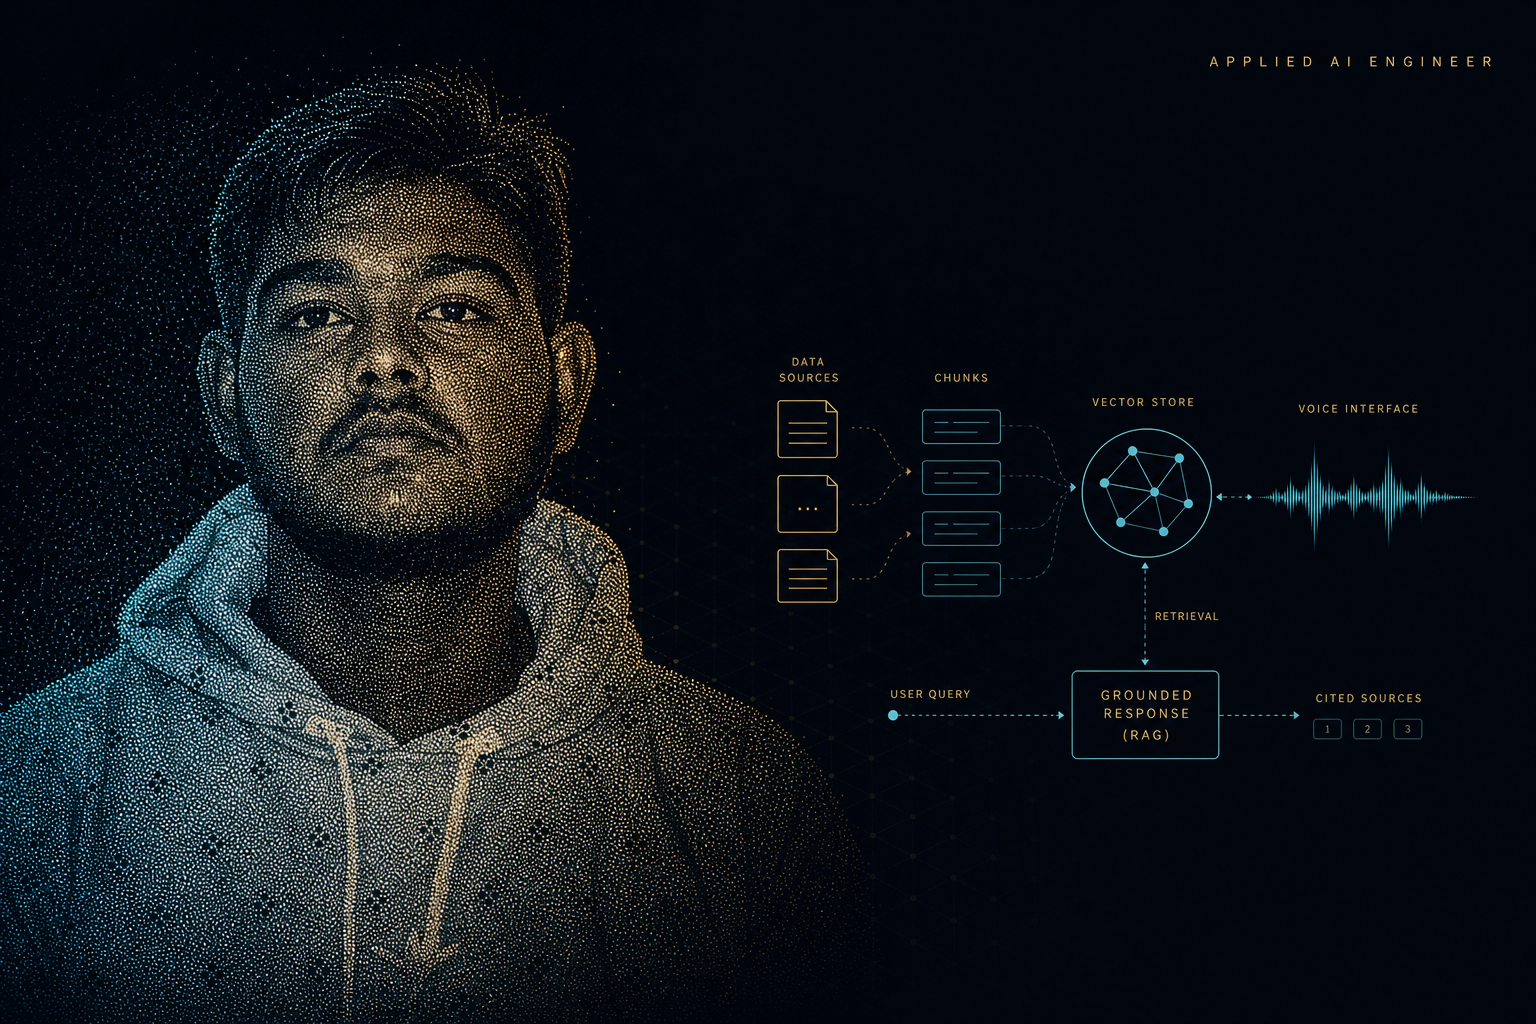
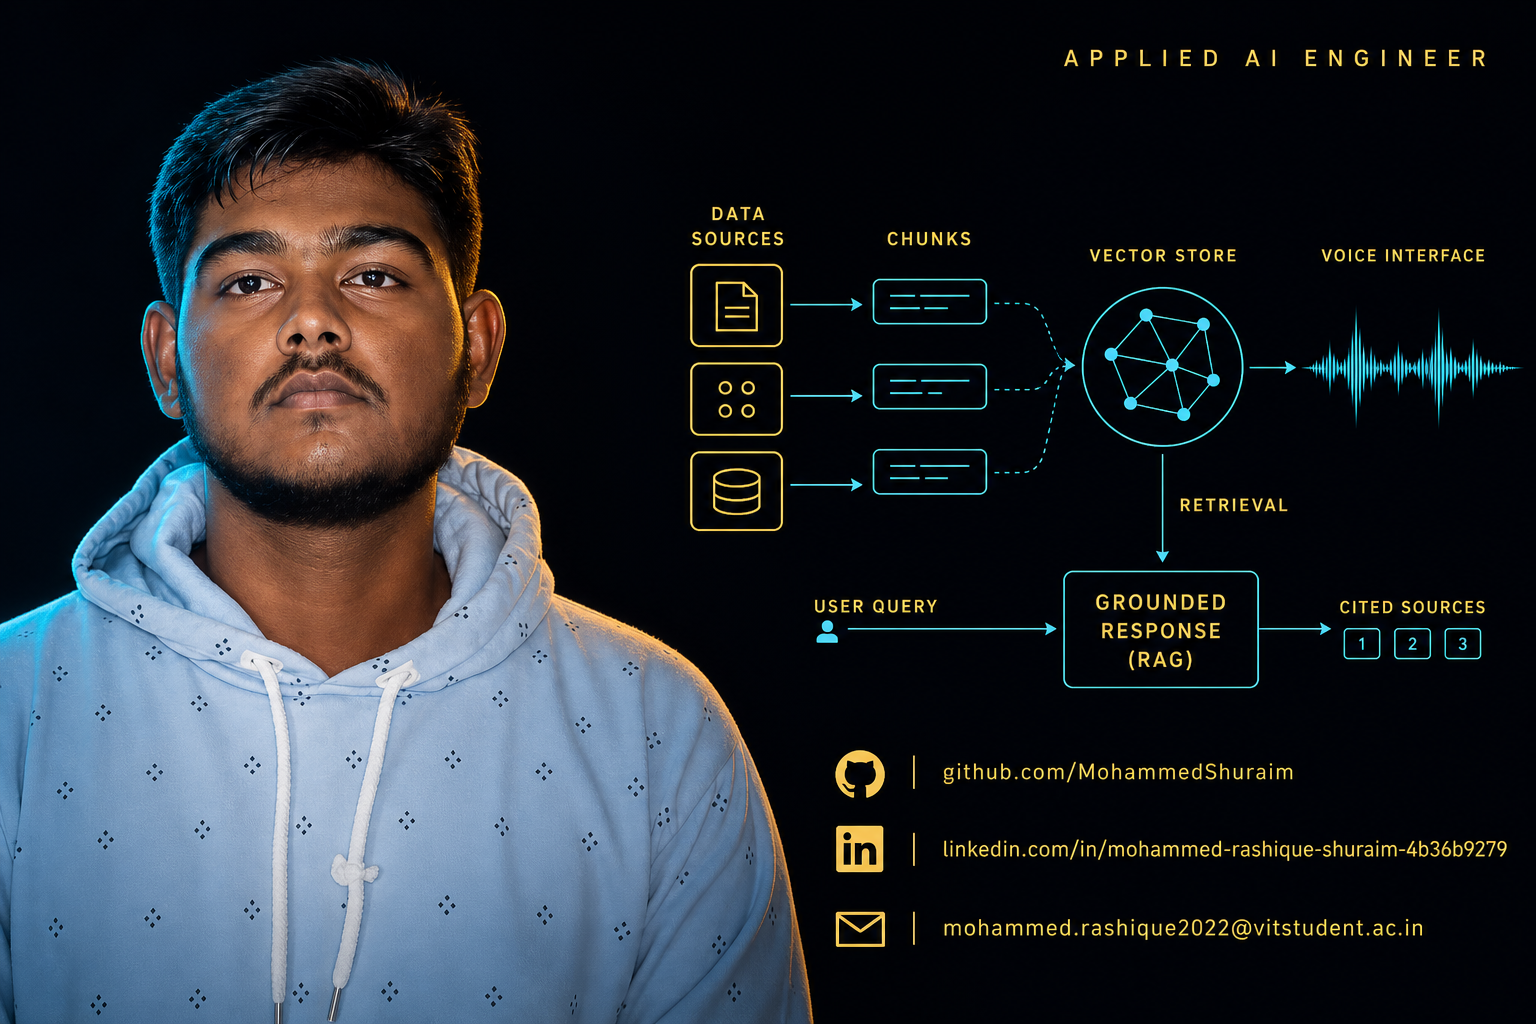
Raise profile art resolution and fix contact, pipeline, and Signal cards.

diff --git a/README.md b/README.md
@@ -1,53 +1,49 @@
-<!-- Theme: Ink #070A12 · Brass #D4AF6A · Signal cyan #38D8F0 · Neural violet #7C6CFF -->
+<!-- Applied AI Engineer · Ink #070A12 · Brass #D4AF6A · Signal cyan #38D8F0 -->
 
 <div align="center">
-<picture>
-  <source media="(prefers-color-scheme: dark)" srcset="hero-dark.png">
-  <source media="(prefers-color-scheme: light)" srcset="hero-light.png">
   <img src="hero-dark.png" alt="Mohammed Rashique Shuraim — Applied AI Engineer" width="100%">
-</picture>
 </div>
 
 ---
 
 <div align="center">
-<img src="mark.png" width="96" alt="Applied AI mark">
+  <img src="mark.png" width="88" alt="Applied AI mark">
 
-<p><b>Mohammed Rashique Shuraim</b></p>
-<p>Applied AI Engineer</p>
+  <h2>Mohammed Rashique Shuraim</h2>
+  <h3>Applied AI Engineer</h3>
+</div>
 
-I design <b>production AI systems</b> — retrieval that cites the document, voice that routes a command or answers, agents that already know the user’s context.
+I build **production AI systems** that have to be right in the real world: a lawyer asking a statute, an investor asking about holdings, an operator speaking a command to their desktop.
 
-**Theme** · Ink (`#070A12`) · Brass (`#D4AF6A`) · Signal cyan (`#38D8F0`) · Neural violet (`#7C6CFF`)
+The model is never the product. The product is the loop around it — capture the signal, retrieve or transcribe, constrain the generation to sources that exist, return a structured answer, and put it in an interface a stranger can use.
 
-[![LinkedIn](https://img.shields.io/badge/LinkedIn-070A12?style=for-the-badge&logo=linkedin&logoColor=D4AF6A)](https://www.linkedin.com/in/mohammed-rashique-shuraim-4b36b9279)
+I am studying at **VIT Chennai** (`22MIS1040`) and shipping applied AI for Indian-language and Indian-market problems.
+
+<div align="center">
+
+**GitHub** · [github.com/MohammedShuraim](https://github.com/MohammedShuraim)
+
+**LinkedIn** · [linkedin.com/in/mohammed-rashique-shuraim-4b36b9279](https://www.linkedin.com/in/mohammed-rashique-shuraim-4b36b9279)
+
+**Email** · [mohammed.rashique2022@vitstudent.ac.in](mailto:mohammed.rashique2022@vitstudent.ac.in)
+
 [![GitHub](https://img.shields.io/badge/GitHub-MohammedShuraim-070A12?style=for-the-badge&logo=github&logoColor=38D8F0)](https://github.com/MohammedShuraim)
-[![Email](https://img.shields.io/badge/Email-vitstudent-070A12?style=for-the-badge&logo=gmail&logoColor=D4AF6A)](mailto:mohammed.rashique2022@vitstudent.ac.in)
-[![Python](https://img.shields.io/badge/Python-3776AB?style=for-the-badge&logo=python&logoColor=white)](https://www.python.org/)
-[![TypeScript](https://img.shields.io/badge/TypeScript-3178C6?style=for-the-badge&logo=typescript&logoColor=white)](https://www.typescriptlang.org/)
-[![AWS](https://img.shields.io/badge/AWS-232F3E?style=for-the-badge&logo=amazonwebservices&logoColor=FF9900)](https://aws.amazon.com/)
-
-[LexCloud](https://github.com/MohammedShuraim/LexCloud) · [Sentellent AI](https://github.com/MohammedShuraim/sentinel-ai) · [Sarah](https://github.com/MohammedShuraim/sarah-voice-assistant)
+[![LinkedIn](https://img.shields.io/badge/LinkedIn-Connect-070A12?style=for-the-badge&logo=linkedin&logoColor=D4AF6A)](https://www.linkedin.com/in/mohammed-rashique-shuraim-4b36b9279)
+[![Gmail](https://img.shields.io/badge/Gmail-mohammed.rashique2022@vitstudent.ac.in-070A12?style=for-the-badge&logo=gmail&logoColor=D4AF6A)](mailto:mohammed.rashique2022@vitstudent.ac.in)
 
 </div>
 
 ---
 
 <div align="center">
-
-<picture>
-  <source media="(prefers-color-scheme: dark)" srcset="dark.svg">
-  <source media="(prefers-color-scheme: light)" srcset="light.svg">
-  <img src="dark.svg" alt="Particle identity plate" width="100%">
-</picture>
-
+  <img src="identity-plate.png" alt="Identity plate — GitHub, LinkedIn, Email" width="100%">
 </div>
 
 ---
 
 ## What I ship
 
-These are not notebooks. Each one is a product loop: interface, model, retrieval or speech, API, and a cloud path a stranger can open.
+These are not notebooks. Each one is a full product: interface, model, retrieval or speech, API, and a cloud path.
 
 <table>
 <tr>
@@ -58,8 +54,6 @@ These are not notebooks. Each one is a product loop: interface, model, retrieval
 
 Upload a statute or contract. Ask from the **PDF (RAG)**. Translate the full document into Hindi, Tamil, Telugu, Malayalam, or Kannada. **Whisper** in. **Amazon Polly** out.
 
-Amplify · Lambda · API Gateway · S3 · DynamoDB · Groq
-
 [Repository](https://github.com/MohammedShuraim/LexCloud) · [Live](https://main.d2pw2pic3w5m1.amplifyapp.com) · [Watch](https://www.loom.com/share/ed575fdabd3142d5bef7168b4414385a)
 
 </td>
@@ -68,9 +62,7 @@ Amplify · Lambda · API Gateway · S3 · DynamoDB · Groq
 ### Sentellent AI
 **NSE investment desk**
 
-Investor profile → ranked picks → paper trade → watchlist → news. The analyst chat is injected with **holdings and watchlist**, so it cannot forget what you already own.
-
-Next.js · FastAPI · PostgreSQL / pgvector · Docker · Terraform · Gemini
+Investor profile → ranked picks → paper trade → watchlist → news. Chat is injected with **holdings and watchlist**, so the analyst cannot forget what you already own.
 
 [Repository](https://github.com/MohammedShuraim/sentinel-ai) · [Live](http://sentellent007.duckdns.org:3000) · [Watch](https://www.loom.com/share/ff398d09217c42568d1778d3608317ee)
 
@@ -80,9 +72,7 @@ Next.js · FastAPI · PostgreSQL / pgvector · Docker · Terraform · Gemini
 ### Sarah
 **Desktop voice agent**
 
-Wake word. Silence-aware recording. 34 spoken OS commands. Conversational fallback on Groq GPT-OSS. The same `Assistant` class drives CLI and the React push-to-talk client.
-
-Python · Flask · React 19 · Vite · Whisper · gTTS
+Wake word. Silence-aware recording. 34 spoken OS commands. Conversational fallback on Groq GPT-OSS. One `Assistant` class drives CLI and the React push-to-talk client.
 
 [Repository](https://github.com/MohammedShuraim/sarah-voice-assistant) · [Watch](https://www.loom.com/share/d10d493df9b44a54be501d36abeffb75)
 
@@ -94,38 +84,74 @@ Python · Flask · React 19 · Vite · Whisper · gTTS
 
 ## How I treat a model
 
-```text
-signal → retrieve or transcribe → constrained generation → structured reply → interface
-              ↑                         |
-              └── PDF / holdings / last command
-```
+<div align="center">
+  <img src="pipeline.svg" alt="Grounded generation pipeline" width="100%">
+</div>
 
-Four failure modes I design against:
+**If the source did not say it, the model does not get to invent it.**
 
-1. **Hallucination** — a sentence the source never supported.
-2. **Transcription drift** — the wrong word at the start of the pipeline.
-3. **Stale context** — chat that forgets the document, portfolio, or last command.
-4. **Latency** — RAG and voice die if the round-trip feels like a batch job.
+I design against four failure modes:
 
-If the source did not say it, the model does not get to invent it.
+| Failure | What it looks like | What I do |
+| --- | --- | --- |
+| **Hallucination** | A sentence the source never supported | Retrieve first. Bound the prompt. Cite. |
+| **Transcription drift** | The wrong word at the start of the pipeline | Whisper in, then route; do not “clean up” facts with an unconstrained LLM |
+| **Stale context** | Chat that forgets the PDF, portfolio, or last command | Inject holdings, watchlist, or document into every turn |
+| **Latency** | RAG and voice that feel like a batch job | Serverless and Groq where the round-trip has to stay conversational |
 
 ---
 
 ## Stack from shipped systems
 
+Not a wish list. This is what is actually in LexCloud, Sentellent AI, and Sarah.
+
+### Languages
 <p>
   <img src="https://img.shields.io/badge/Python-3776AB?style=for-the-badge&logo=python&logoColor=white" alt="Python">
   <img src="https://img.shields.io/badge/TypeScript-3178C6?style=for-the-badge&logo=typescript&logoColor=white" alt="TypeScript">
+  <img src="https://img.shields.io/badge/JavaScript-F7DF1E?style=for-the-badge&logo=javascript&logoColor=black" alt="JavaScript">
+  <img src="https://img.shields.io/badge/SQL-4479A1?style=for-the-badge&logo=postgresql&logoColor=white" alt="SQL">
+  <img src="https://img.shields.io/badge/HTML5-E34F26?style=for-the-badge&logo=html5&logoColor=white" alt="HTML5">
+  <img src="https://img.shields.io/badge/CSS3-1572B6?style=for-the-badge&logo=css3&logoColor=white" alt="CSS3">
+</p>
+
+### Applied AI
+<p>
+  <img src="https://img.shields.io/badge/RAG-38D8F0?style=for-the-badge&logoColor=070A12" alt="RAG">
+  <img src="https://img.shields.io/badge/Groq-F55036?style=for-the-badge" alt="Groq">
+  <img src="https://img.shields.io/badge/Whisper-STT-5A5A5A?style=for-the-badge" alt="Whisper">
+  <img src="https://img.shields.io/badge/GPT--OSS-F55036?style=for-the-badge" alt="GPT-OSS">
+  <img src="https://img.shields.io/badge/Google%20Gemini-4285F4?style=for-the-badge&logo=googlegemini&logoColor=white" alt="Gemini">
+  <img src="https://img.shields.io/badge/Amazon%20Polly-4B72B0?style=for-the-badge" alt="Amazon Polly">
+  <img src="https://img.shields.io/badge/gTTS-4285F4?style=for-the-badge&logo=google&logoColor=white" alt="gTTS">
+  <img src="https://img.shields.io/badge/pgvector-4169E1?style=for-the-badge&logo=postgresql&logoColor=white" alt="pgvector">
+</p>
+
+### Product & backend
+<p>
   <img src="https://img.shields.io/badge/FastAPI-009688?style=for-the-badge&logo=fastapi&logoColor=white" alt="FastAPI">
+  <img src="https://img.shields.io/badge/Flask-000000?style=for-the-badge&logo=flask&logoColor=white" alt="Flask">
   <img src="https://img.shields.io/badge/Next.js-000000?style=for-the-badge&logo=nextdotjs&logoColor=white" alt="Next.js">
   <img src="https://img.shields.io/badge/React-61DAFB?style=for-the-badge&logo=react&logoColor=111827" alt="React">
-  <img src="https://img.shields.io/badge/RAG-38D8F0?style=for-the-badge&logoColor=070A12" alt="RAG">
-  <img src="https://img.shields.io/badge/Groq-Whisper%20%2B%20LLMs-F55036?style=for-the-badge" alt="Groq">
-  <img src="https://img.shields.io/badge/Gemini-8E75B2?style=for-the-badge&logo=googlegemini&logoColor=white" alt="Gemini">
-  <img src="https://img.shields.io/badge/pgvector-4169E1?style=for-the-badge&logo=postgresql&logoColor=white" alt="pgvector">
-  <img src="https://img.shields.io/badge/AWS-Lambda%20·%20S3%20·%20DynamoDB%20·%20Amplify-FF9900?style=for-the-badge&logo=amazonwebservices&logoColor=white" alt="AWS">
+  <img src="https://img.shields.io/badge/Vite-646CFF?style=for-the-badge&logo=vite&logoColor=white" alt="Vite">
+  <img src="https://img.shields.io/badge/pytest-0A9EDC?style=for-the-badge&logo=pytest&logoColor=white" alt="pytest">
+  <img src="https://img.shields.io/badge/Google%20OAuth-4285F4?style=for-the-badge&logo=google&logoColor=white" alt="Google OAuth">
+</p>
+
+### Cloud & data
+<p>
+  <img src="https://img.shields.io/badge/AWS%20Lambda-FF9900?style=for-the-badge&logo=awslambda&logoColor=white" alt="Lambda">
+  <img src="https://img.shields.io/badge/API%20Gateway-FF4F8B?style=for-the-badge&logo=amazonapigateway&logoColor=white" alt="API Gateway">
+  <img src="https://img.shields.io/badge/S3-569A31?style=for-the-badge&logo=amazons3&logoColor=white" alt="S3">
+  <img src="https://img.shields.io/badge/DynamoDB-4053D6?style=for-the-badge&logo=amazondynamodb&logoColor=white" alt="DynamoDB">
+  <img src="https://img.shields.io/badge/Amplify-FF9900?style=for-the-badge&logo=awsamplify&logoColor=white" alt="Amplify">
+  <img src="https://img.shields.io/badge/EC2-FF9900?style=for-the-badge&logo=amazonec2&logoColor=white" alt="EC2">
+  <img src="https://img.shields.io/badge/RDS-527FFF?style=for-the-badge&logo=amazonrds&logoColor=white" alt="RDS">
+  <img src="https://img.shields.io/badge/ECR-FF9900?style=for-the-badge" alt="ECR">
+  <img src="https://img.shields.io/badge/PostgreSQL-4169E1?style=for-the-badge&logo=postgresql&logoColor=white" alt="PostgreSQL">
   <img src="https://img.shields.io/badge/Terraform-7B42BC?style=for-the-badge&logo=terraform&logoColor=white" alt="Terraform">
   <img src="https://img.shields.io/badge/Docker-2496ED?style=for-the-badge&logo=docker&logoColor=white" alt="Docker">
+  <img src="https://img.shields.io/badge/GitHub%20Actions-2088FF?style=for-the-badge&logo=githubactions&logoColor=white" alt="GitHub Actions">
 </p>
 
 ---
@@ -134,38 +160,11 @@ If the source did not say it, the model does not get to invent it.
 
 <div align="center">
 
-<picture>
-  <source media="(prefers-color-scheme: dark)" srcset="https://streak-stats.demolab.com?user=MohammedShuraim&hide_border=true&background=070A12&stroke=38D8F0&ring=D4AF6A&fire=38D8F0&currStreakLabel=D4AF6A&sideLabels=8B93A7&currStreakNum=E8ECF4&sideNums=E8ECF4&dates=8B93A7&title_color=38D8F0" />
-  <img width="100%" src="https://streak-stats.demolab.com?user=MohammedShuraim&hide_border=true&background=F4F0E8&stroke=0E7490&ring=A16207&fire=0E7490&currStreakLabel=A16207&sideLabels=5C564C&currStreakNum=14110C&sideNums=14110C&dates=5C564C&title_color=0E7490" alt="GitHub streak">
-</picture>
+<img src="https://streak-stats.demolab.com/?user=MohammedShuraim&hide_border=true&background=070A12&stroke=38D8F0&ring=D4AF6A&fire=38D8F0&currStreakLabel=D4AF6A&sideLabels=8B93A7&currStreakNum=E8ECF4&sideNums=E8ECF4&dates=8B93A7" alt="GitHub streak" width="100%">
 
-<a href="https://github.com/MohammedShuraim">
-  <picture>
-    <source media="(prefers-color-scheme: dark)" srcset="https://github-readme-stats.vercel.app/api?username=MohammedShuraim&show_icons=true&include_all_commits=true&hide_rank=true&hide_border=true&title_color=D4AF6A&icon_color=38D8F0&text_color=8B93A7&bg_color=070A12" />
-    <img height="158" src="https://github-readme-stats.vercel.app/api?username=MohammedShuraim&show_icons=true&include_all_commits=true&hide_rank=true&hide_border=true&title_color=A16207&icon_color=0E7490&text_color=14110C&bg_color=F4F0E8" alt="GitHub stats">
-  </picture>
-</a>
-<a href="https://github.com/MohammedShuraim">
-  <picture>
-    <source media="(prefers-color-scheme: dark)" srcset="https://github-readme-stats.vercel.app/api/top-langs/?username=MohammedShuraim&layout=compact&langs_count=6&hide_border=true&title_color=D4AF6A&text_color=8B93A7&bg_color=070A12" />
-    <img height="158" src="https://github-readme-stats.vercel.app/api/top-langs/?username=MohammedShuraim&layout=compact&langs_count=6&hide_border=true&title_color=A16207&text_color=14110C&bg_color=F4F0E8" alt="Top languages">
-  </picture>
-</a>
+<img src="https://github-readme-stats.vercel.app/api?username=MohammedShuraim&show_icons=true&include_all_commits=true&hide_rank=true&hide_border=true&title_color=D4AF6A&icon_color=38D8F0&text_color=E8ECF4&bg_color=070A12" alt="GitHub stats">
+<img src="https://github-readme-stats.vercel.app/api/top-langs/?username=MohammedShuraim&layout=compact&langs_count=8&hide_border=true&title_color=D4AF6A&text_color=E8ECF4&bg_color=070A12" alt="Top languages">
 
-<picture>
-  <source media="(prefers-color-scheme: dark)" srcset="https://raw.githubusercontent.com/MohammedShuraim/MohammedShuraim/output/github-snake-dark.svg" />
-  <source media="(prefers-color-scheme: light)" srcset="https://raw.githubusercontent.com/MohammedShuraim/MohammedShuraim/output/github-snake.svg" />
-  <img alt="Contribution snake" src="https://raw.githubusercontent.com/MohammedShuraim/MohammedShuraim/output/github-snake.svg">
-</picture>
-
-</div>
-
----
-
-<div align="center">
-
-Studying at **VIT Chennai** (`22MIS1040`). Building applied AI for Indian-language and Indian-market problems.
-
-[LinkedIn](https://www.linkedin.com/in/mohammed-rashique-shuraim-4b36b9279) · [Email](mailto:mohammed.rashique2022@vitstudent.ac.in) · [GitHub](https://github.com/MohammedShuraim)
+<img src="https://raw.githubusercontent.com/MohammedShuraim/MohammedShuraim/output/github-snake-dark.svg" alt="Contribution snake">
 
 </div>
